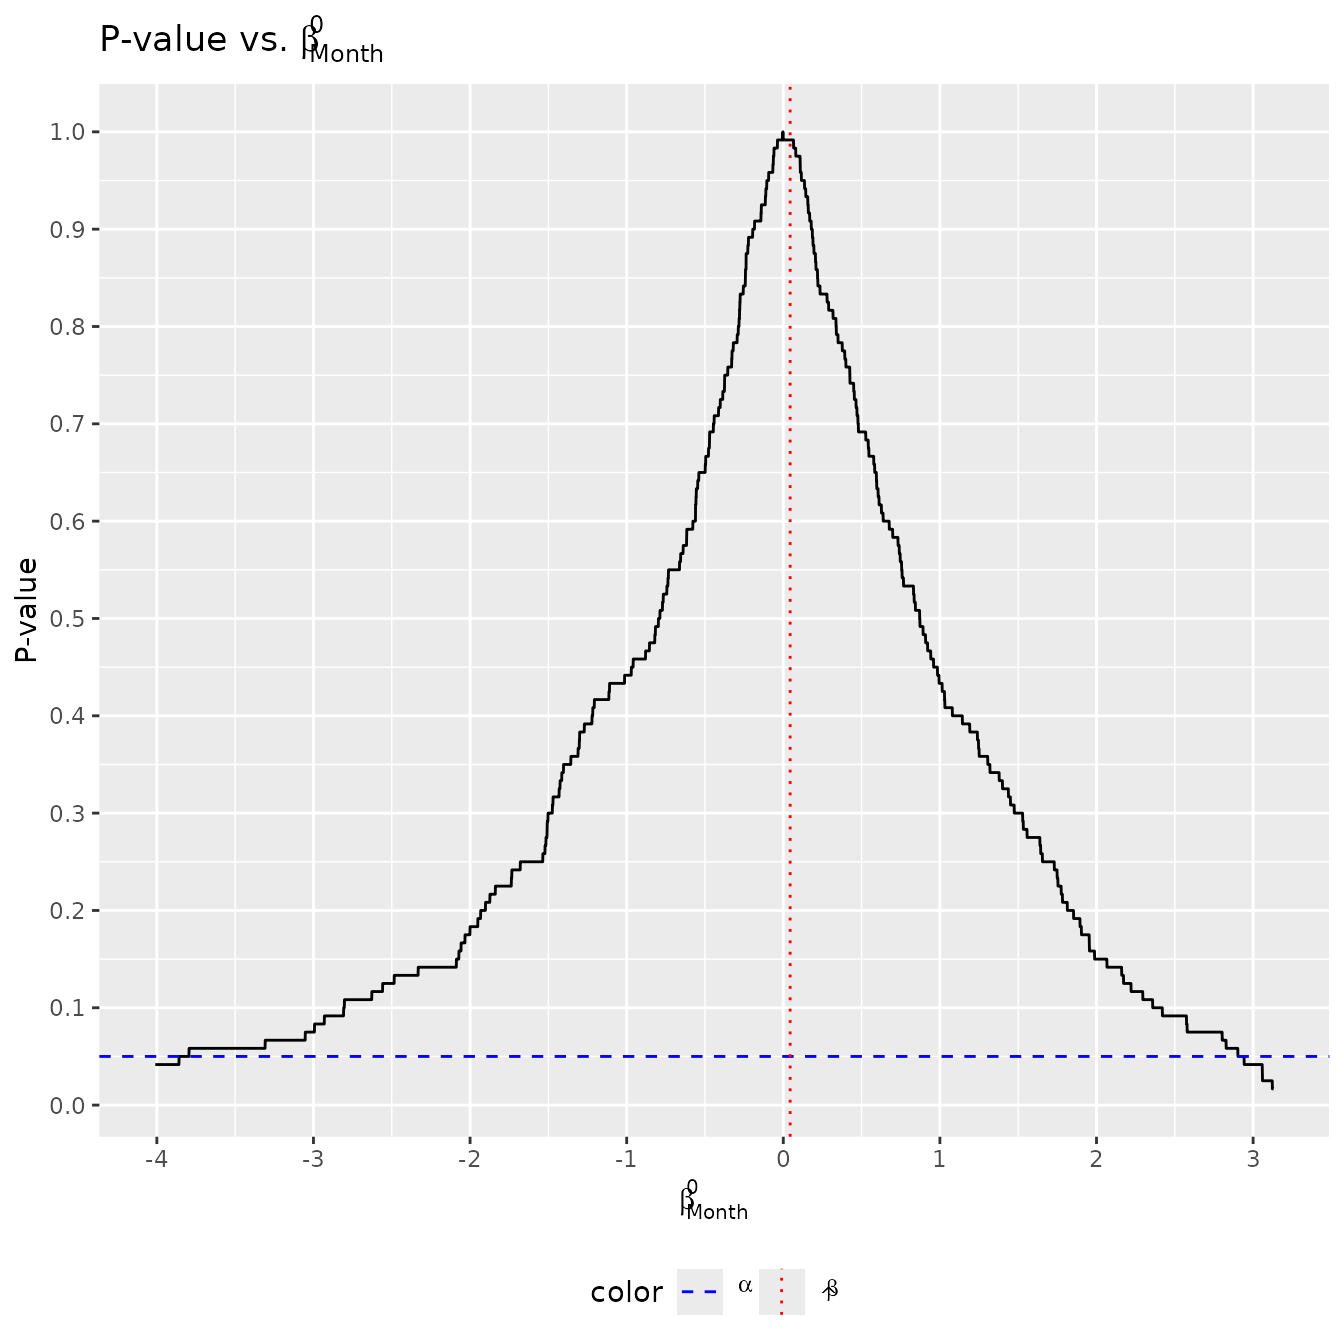
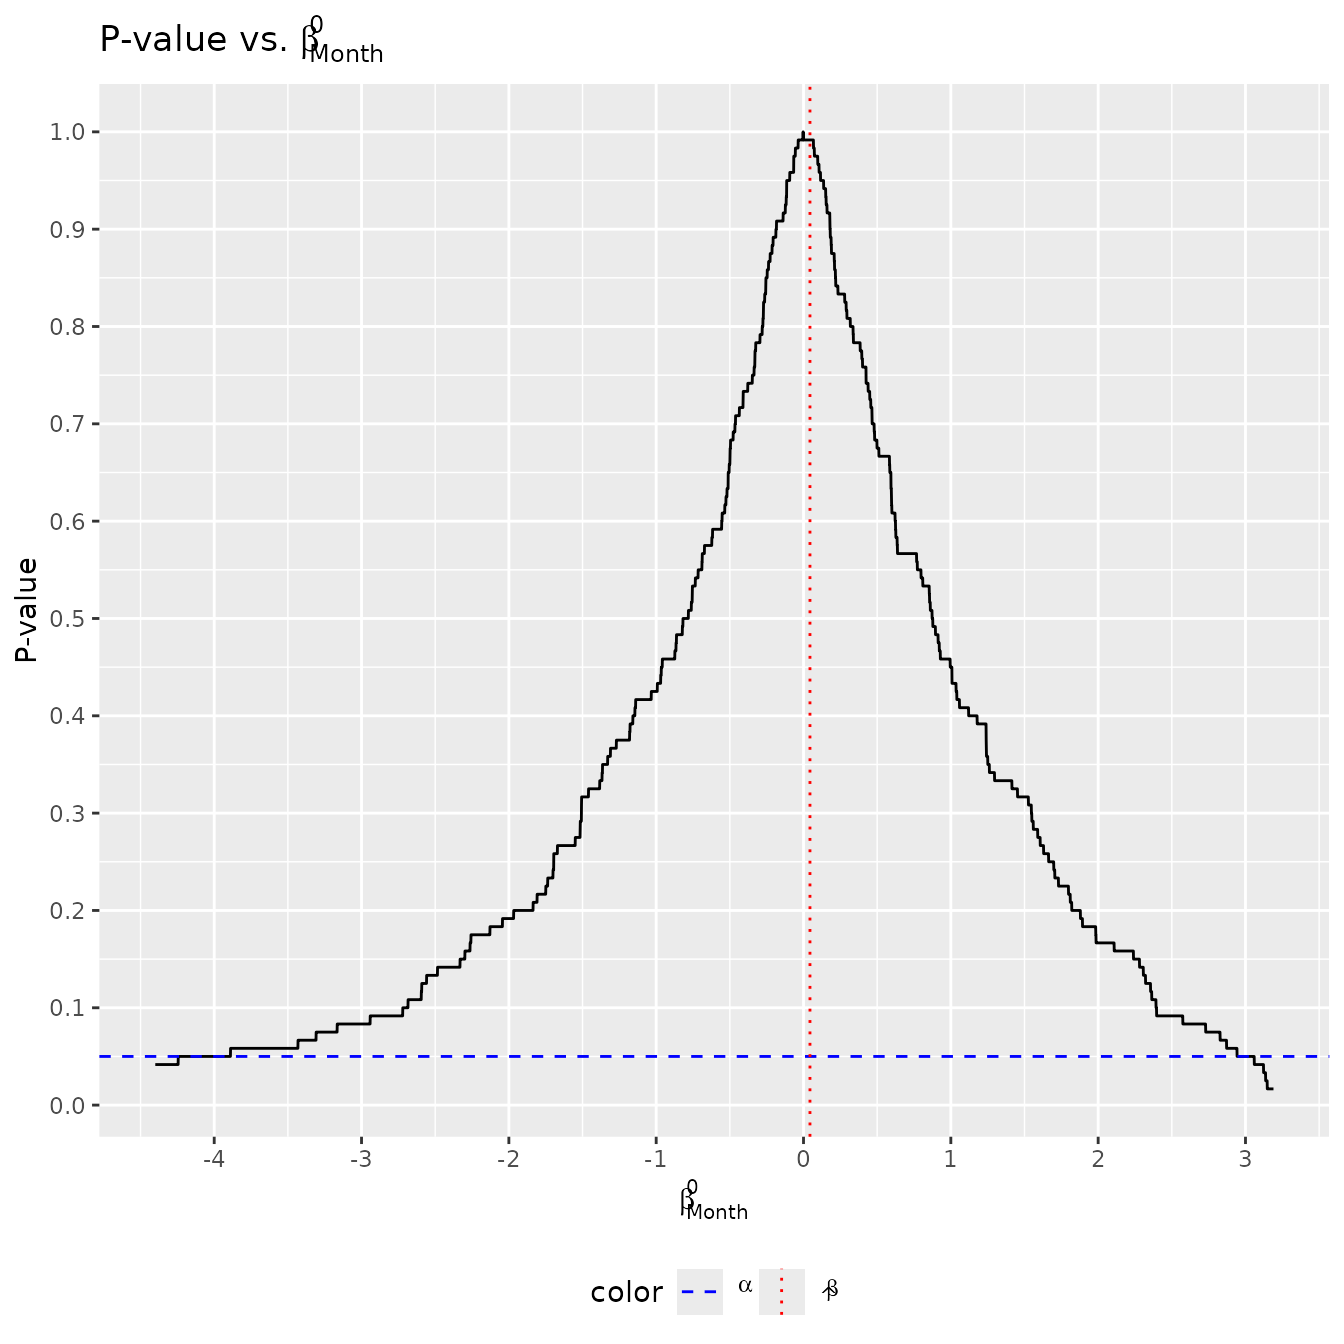
Deploying to gh-pages from @ ian-xu-economics/exactt@c38e35f67abddce7447a585978934c21919bb99a 🚀

diff --git a/articles/exactt.html b/articles/exactt.html
@@ -32,7 +32,7 @@
       </button>
       <span class="navbar-brand">
         <a class="navbar-link" href="../index.html">exactt</a>
-        <span class="version label label-default" data-toggle="tooltip" data-placement="bottom" title="">1.1.8</span>
+        <span class="version label label-default" data-toggle="tooltip" data-placement="bottom" title="">1.1.9</span>
       </span>
     </div>
 
@@ -108,7 +108,7 @@ and the BibTeX entry for referencing:</p>
 our session using the base <code><a href="https://rdrr.io/r/base/library.html" class="external-link">library()</a></code> function:</p>
 <div class="sourceCode" id="cb3"><pre class="downlit sourceCode r">
 <code class="sourceCode R"><span><span class="kw"><a href="https://rdrr.io/r/base/library.html" class="external-link">library</a></span><span class="op">(</span><span class="st"><a href="https://github.com/ian-xu-economics/exactt" class="external-link">"exactt"</a></span><span class="op">)</span></span>
-<span><span class="co">#&gt; Package 'exactt' | Version 1.1.8</span></span></code></pre></div>
+<span><span class="co">#&gt; Package 'exactt' | Version 1.1.9</span></span></code></pre></div>
 </div>
 <div class="section level2">
 <h2 id="example-usage-regular-case">Example Usage: Regular Case<a class="anchor" aria-label="anchor" href="#example-usage-regular-case"></a>
@@ -161,8 +161,8 @@ then by default:</p>
 <span><span class="co">#&gt; </span></span>
 <span><span class="co"><span style="color: #0000BB; font-weight: bold;">#&gt; Summary:</span></span></span>
 <span><span class="co"><span style="color: #0000BB; font-weight: bold;">#&gt; </span>       Estimate  Pr(&gt;|t|)   2.5% W  97.5% W     2.5%    97.5%</span></span>
-<span><span class="co">#&gt; Temp   -0.17320  0.008333  -0.2936  -0.1087  -0.2936  -0.1087</span></span>
-<span><span class="co">#&gt; Month   0.04382  0.991700  -3.8580   2.9420  -3.8580   2.9420</span></span></code></pre></div>
+<span><span class="co">#&gt; Temp   -0.17320   0.01667  -0.2917  -0.1087  -0.2917  -0.1087</span></span>
+<span><span class="co">#&gt; Month   0.04382   0.99170  -4.2440   3.0590  -4.2440   3.0590</span></span></code></pre></div>
 </div>
 <div class="section level2">
 <h2 id="visualization-of-results">Visualization of Results<a class="anchor" aria-label="anchor" href="#visualization-of-results"></a>
@@ -201,7 +201,7 @@ set <code>variables = 1</code> for <code>Temp</code>, and set
 <span><span class="co">#&gt; </span></span>
 <span><span class="co"><span style="color: #0000BB; font-weight: bold;">#&gt; Summary:</span></span></span>
 <span><span class="co"><span style="color: #0000BB; font-weight: bold;">#&gt; </span>      Estimate  Pr(&gt;|t|)   2.5% W  97.5% W     2.5%    97.5%</span></span>
-<span><span class="co">#&gt; Temp   -0.1732  0.008333  -0.2936  -0.1087  -0.2936  -0.1087</span></span></code></pre></div>
+<span><span class="co">#&gt; Temp   -0.1732   0.01667  -0.2917  -0.1087  -0.2917  -0.1087</span></span></code></pre></div>
 <p>This creates a 95% confidence interval for <code>Temp</code> only. It
 is equivalent to the case where <code>variables = NULL</code> (all
 variables are of interest) because these confidence intervals are
@@ -231,11 +231,11 @@ measurements:</p>
 <span><span class="co">#&gt; </span></span>
 <span><span class="co"><span style="color: #0000BB; font-weight: bold;">#&gt; Summary:</span></span></span>
 <span><span class="co"><span style="color: #0000BB; font-weight: bold;">#&gt; </span>                   Estimate  Pr(&gt;|t|)   2.5% W  97.5% W     2.5%    97.5%</span></span>
-<span><span class="co">#&gt; Temp                -0.1953  0.008333  -0.2939  -0.1094  -0.2939  -0.1094</span></span>
-<span><span class="co">#&gt; as.factor(Month)6    1.2900  0.975000     -Inf      Inf     -Inf      Inf</span></span>
-<span><span class="co">#&gt; as.factor(Month)7    0.9035  0.283300     -Inf      Inf     -Inf      Inf</span></span>
-<span><span class="co">#&gt; as.factor(Month)8    0.7677  0.391700     -Inf  10.5900     -Inf  10.5900</span></span>
-<span><span class="co">#&gt; as.factor(Month)9    0.7740  0.600000     -Inf      Inf     -Inf      Inf</span></span></code></pre></div>
+<span><span class="co">#&gt; Temp                -0.1953   0.01667  -0.2916  -0.1094  -0.2916  -0.1094</span></span>
+<span><span class="co">#&gt; as.factor(Month)6    1.2900   0.92500     -Inf      Inf     -Inf      Inf</span></span>
+<span><span class="co">#&gt; as.factor(Month)7    0.9035   0.28330     -Inf      Inf     -Inf      Inf</span></span>
+<span><span class="co">#&gt; as.factor(Month)8    0.7677   0.34170     -Inf   9.3100     -Inf   9.3100</span></span>
+<span><span class="co">#&gt; as.factor(Month)9    0.7740   0.61670     -Inf      Inf     -Inf      Inf</span></span></code></pre></div>
 <p>The confidence intervals for each category of Month is not
 informative due to suboptimal data ordering, which can diminish the
 statistical power of the test. This issue can be addressed by optimizing

diff --git a/reference/exactt.html b/reference/exactt.html
@@ -21,7 +21,7 @@ parameters for the test."><!-- mathjax --><script src="https://cdnjs.cloudflare.
       </button>
       <span class="navbar-brand">
         <a class="navbar-link" href="../index.html">exactt</a>
-        <span class="version label label-default" data-toggle="tooltip" data-placement="bottom" title="">1.1.8</span>
+        <span class="version label label-default" data-toggle="tooltip" data-placement="bottom" title="">1.1.9</span>
       </span>
     </div>
 

diff --git a/reference/exacttPlot.html b/reference/exacttPlot.html
@@ -19,7 +19,7 @@ with a horizontal line and the estimate from the summary with a vertical line.">
       </button>
       <span class="navbar-brand">
         <a class="navbar-link" href="../index.html">exactt</a>
-        <span class="version label label-default" data-toggle="tooltip" data-placement="bottom" title="">1.1.8</span>
+        <span class="version label label-default" data-toggle="tooltip" data-placement="bottom" title="">1.1.9</span>
       </span>
     </div>
 

diff --git a/reference/print.et.html b/reference/print.et.html
@@ -20,7 +20,7 @@ information contained in the object."><!-- mathjax --><script src="https://cdnjs
       </button>
       <span class="navbar-brand">
         <a class="navbar-link" href="../index.html">exactt</a>
-        <span class="version label label-default" data-toggle="tooltip" data-placement="bottom" title="">1.1.8</span>
+        <span class="version label label-default" data-toggle="tooltip" data-placement="bottom" title="">1.1.9</span>
       </span>
     </div>
 

diff --git a/articles/index.html b/articles/index.html
@@ -17,7 +17,7 @@
       </button>
       <span class="navbar-brand">
         <a class="navbar-link" href="../index.html">exactt</a>
-        <span class="version label label-default" data-toggle="tooltip" data-placement="bottom" title="">1.1.8</span>
+        <span class="version label label-default" data-toggle="tooltip" data-placement="bottom" title="">1.1.9</span>
       </span>
     </div>
 

diff --git a/reference/dot-onLoad.html b/reference/dot-onLoad.html
@@ -17,7 +17,7 @@
       </button>
       <span class="navbar-brand">
         <a class="navbar-link" href="../index.html">exactt</a>
-        <span class="version label label-default" data-toggle="tooltip" data-placement="bottom" title="">1.1.8</span>
+        <span class="version label label-default" data-toggle="tooltip" data-placement="bottom" title="">1.1.9</span>
       </span>
     </div>
 

diff --git a/reference/exactt-package.html b/reference/exactt-package.html
@@ -17,7 +17,7 @@
       </button>
       <span class="navbar-brand">
         <a class="navbar-link" href="../index.html">exactt</a>
-        <span class="version label label-default" data-toggle="tooltip" data-placement="bottom" title="">1.1.8</span>
+        <span class="version label label-default" data-toggle="tooltip" data-placement="bottom" title="">1.1.9</span>
       </span>
     </div>
 

diff --git a/reference/exacttIV.html b/reference/exacttIV.html
@@ -17,7 +17,7 @@
       </button>
       <span class="navbar-brand">
         <a class="navbar-link" href="../index.html">exactt</a>
-        <span class="version label label-default" data-toggle="tooltip" data-placement="bottom" title="">1.1.8</span>
+        <span class="version label label-default" data-toggle="tooltip" data-placement="bottom" title="">1.1.9</span>
       </span>
     </div>
 

diff --git a/reference/exacttReg.html b/reference/exacttReg.html
@@ -17,7 +17,7 @@
       </button>
       <span class="navbar-brand">
         <a class="navbar-link" href="../index.html">exactt</a>
-        <span class="version label label-default" data-toggle="tooltip" data-placement="bottom" title="">1.1.8</span>
+        <span class="version label label-default" data-toggle="tooltip" data-placement="bottom" title="">1.1.9</span>
       </span>
     </div>
 

diff --git a/reference/exactt_pval_IV.html b/reference/exactt_pval_IV.html
@@ -17,7 +17,7 @@
       </button>
       <span class="navbar-brand">
         <a class="navbar-link" href="../index.html">exactt</a>
-        <span class="version label label-default" data-toggle="tooltip" data-placement="bottom" title="">1.1.8</span>
+        <span class="version label label-default" data-toggle="tooltip" data-placement="bottom" title="">1.1.9</span>
       </span>
     </div>
 

diff --git a/reference/index.html b/reference/index.html
@@ -17,7 +17,7 @@
       </button>
       <span class="navbar-brand">
         <a class="navbar-link" href="../index.html">exactt</a>
-        <span class="version label label-default" data-toggle="tooltip" data-placement="bottom" title="">1.1.8</span>
+        <span class="version label label-default" data-toggle="tooltip" data-placement="bottom" title="">1.1.9</span>
       </span>
     </div>
 

diff --git a/404.html b/404.html
@@ -32,7 +32,7 @@
       </button>
       <span class="navbar-brand">
         <a class="navbar-link" href="index.html">exactt</a>
-        <span class="version label label-default" data-toggle="tooltip" data-placement="bottom" title="">1.1.8</span>
+        <span class="version label label-default" data-toggle="tooltip" data-placement="bottom" title="">1.1.9</span>
       </span>
     </div>
 
